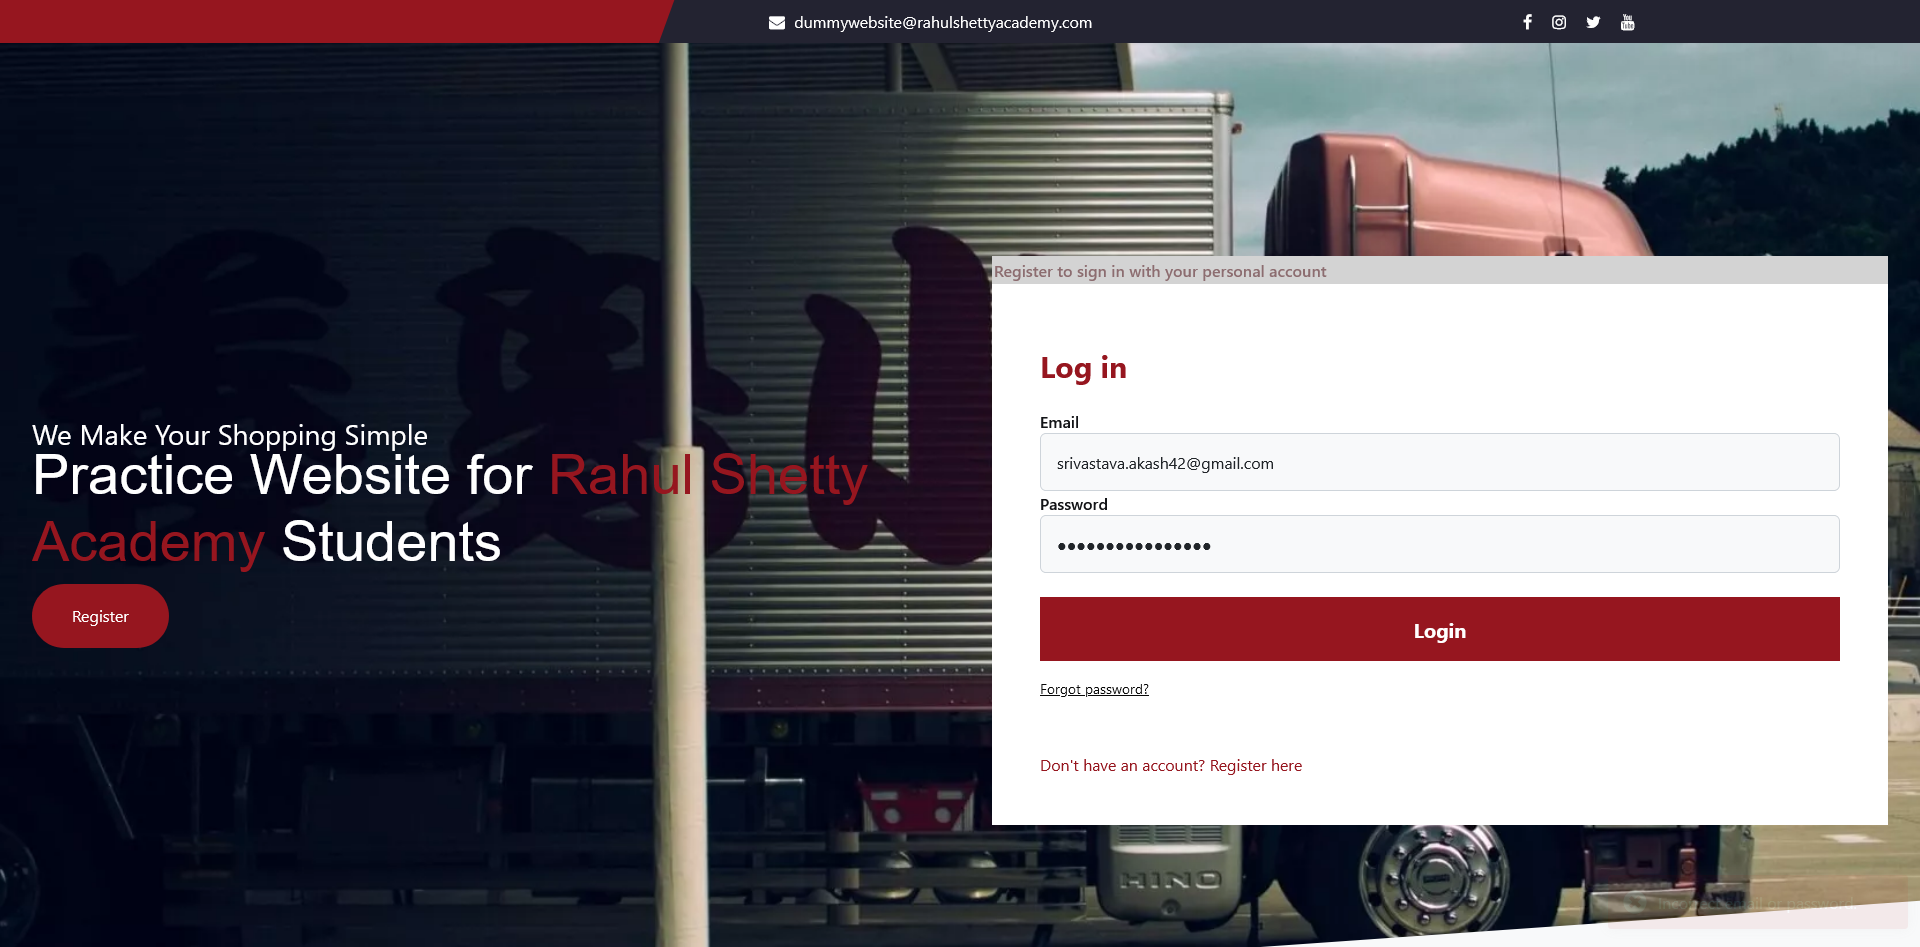
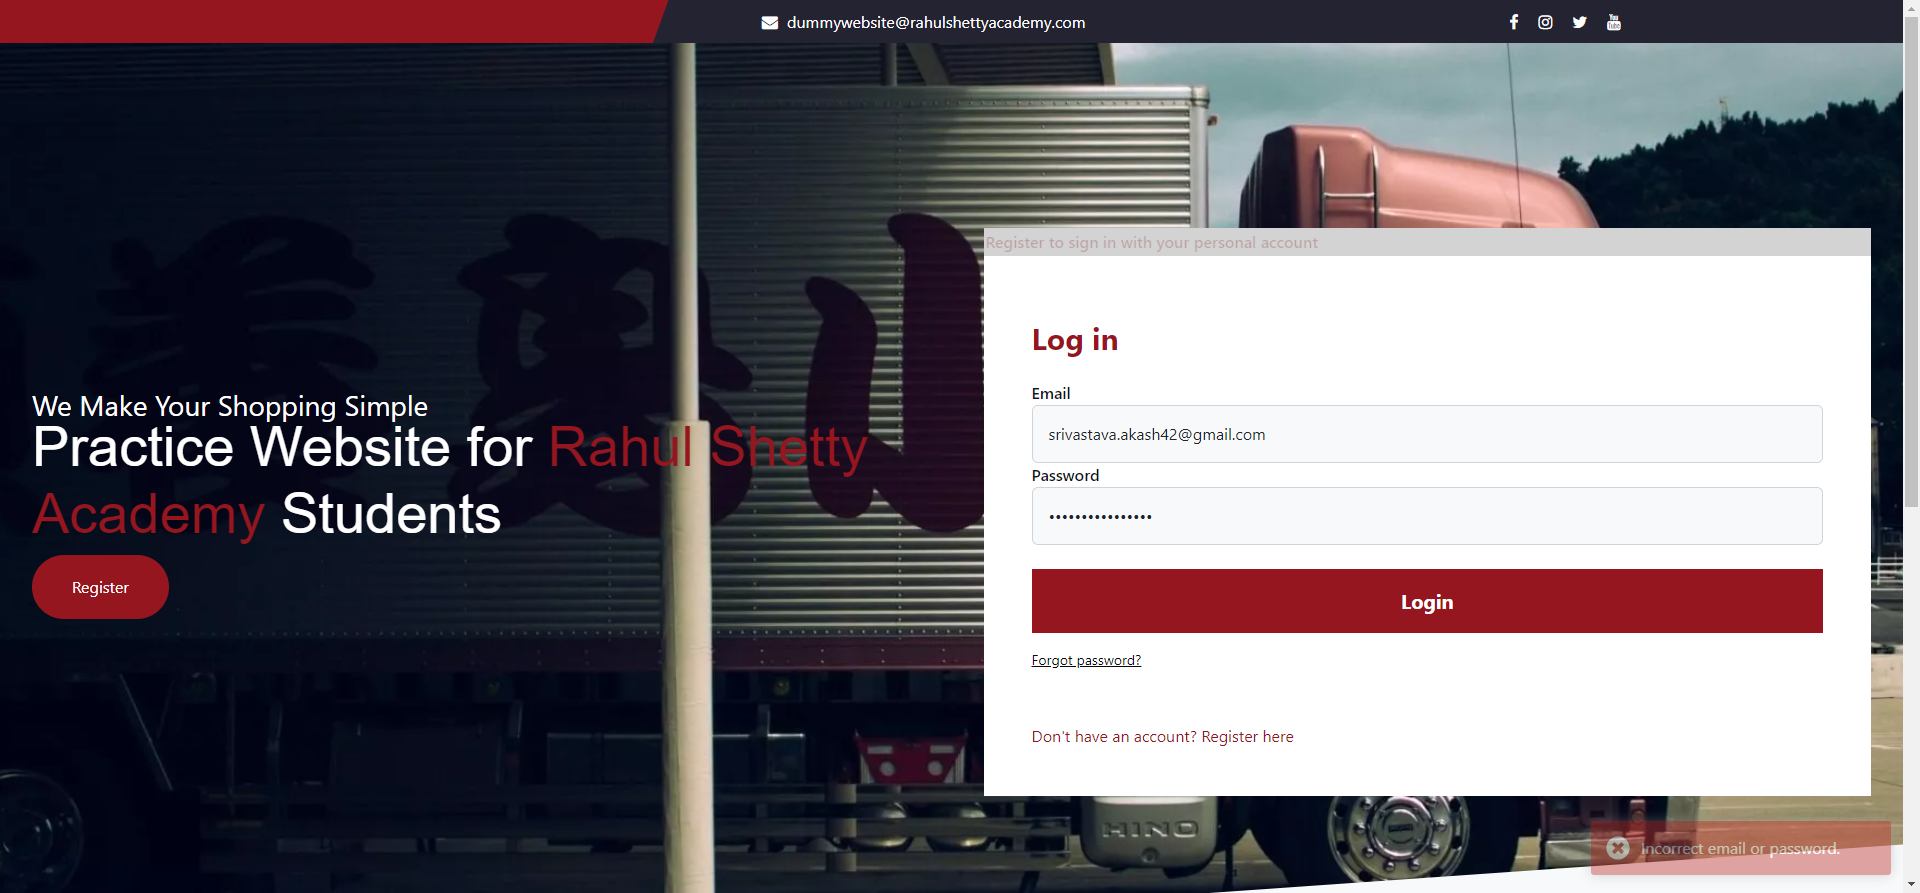
changes

diff --git a/reports/index.html b/reports/index.html
@@ -35,7 +35,7 @@
 <a href="#"><span class="badge badge-primary">UI Automation Report</span></a>
 </li>
 <li class="m-r-10">
-<a href="#"><span class="badge badge-primary">Sep 9, 2024 06:40:28 PM</span></a>
+<a href="#"><span class="badge badge-primary">Sep 9, 2024 07:58:21 PM</span></a>
 </li>
 </ul>
 </div>
@@ -80,14 +80,40 @@
 </ul>
 </div>    <div class="test-list-wrapper scrollable">
       <ul class="test-list-item">
-        <li class="test-item"  status="fail" test-id="1"
+        <li class="test-item"  status="pass" test-id="1"
+          author=""
+          tag=""
+          device="">
+          <div class="test-detail">
+            <p class="name">productOrderTest</p>
+            <p class="text-sm">
+              <span>7:58:23 PM</span> / <span>00:00:00:000</span>
+              <span class="badge pass-bg log float-right">Pass</span>
+            </p>
+          </div>
+          <div class="test-contents d-none">
+<div class="detail-head">
+<div class="p-v-10">
+<div class="info">
+<h5 class="test-status text-pass">productOrderTest</h5>
+<span class='badge badge-success'>09.09.2024 7:58:23 PM</span>
+<span class='badge badge-danger'>09.09.2024 7:58:23 PM</span>
+<span class='badge badge-default'>00:00:00:000</span>
+&middot; <span class='uri-anchor badge badge-default'>#test-id=1</span>
+<span class='badge badge-default pointer float-right ml-1 et'><i class="fa fa-chevron-down"></i></span>
+<span class='badge badge-default pointer float-right ct'><i class="fa fa-chevron-up"></i></span>
+</div>
+</div>
+</div>          </div>
+        </li>
+        <li class="test-item"  status="fail" test-id="2"
           author=""
           tag=""
           device="">
           <div class="test-detail">
             <p class="name">validateErrorMessage_Login</p>
             <p class="text-sm">
-              <span>6:40:33 PM</span> / <span>00:00:00:570</span>
+              <span>7:58:25 PM</span> / <span>00:00:01:010</span>
               <span class="badge fail-bg log float-right">Fail</span>
             </p>
           </div>
@@ -96,10 +122,10 @@
 <div class="p-v-10">
 <div class="info">
 <h5 class="test-status text-fail">validateErrorMessage_Login</h5>
-<span class='badge badge-success'>09.09.2024 6:40:33 PM</span>
-<span class='badge badge-danger'>09.09.2024 6:40:34 PM</span>
-<span class='badge badge-default'>00:00:00:570</span>
-&middot; <span class='uri-anchor badge badge-default'>#test-id=1</span>
+<span class='badge badge-success'>09.09.2024 7:58:25 PM</span>
+<span class='badge badge-danger'>09.09.2024 7:58:26 PM</span>
+<span class='badge badge-default'>00:00:01:010</span>
+&middot; <span class='uri-anchor badge badge-default'>#test-id=2</span>
 <span class='badge badge-default pointer float-right ml-1 et'><i class="fa fa-chevron-down"></i></span>
 <span class='badge badge-default pointer float-right ct'><i class="fa fa-chevron-up"></i></span>
 </div>
@@ -114,7 +140,7 @@
   <tbody>
       <tr class="event-row">
         <td><span class="badge log fail-bg">Fail</span></td>
-        <td>6:40:33 PM</td>
+        <td>7:58:26 PM</td>
         <td>
           <textarea readonly class="code-block">java.lang.AssertionError: expected [Incorrect email or password.] but found [Incorrct email or password.]
 	at org.testng.Assert.fail(Assert.java:111)
@@ -150,42 +176,9 @@
           
         </td>
       </tr>
-  </tbody>
-</table>
-</div>
-          </div>
-        </li>
-        <li class="test-item"  status="pass" test-id="2"
-          author=""
-          tag=""
-          device="">
-          <div class="test-detail">
-            <p class="name">productOrderTest</p>
-            <p class="text-sm">
-              <span>6:40:33 PM</span> / <span>00:00:03:809</span>
-              <span class="badge pass-bg log float-right">Pass</span>
-            </p>
-          </div>
-          <div class="test-contents d-none">
-<div class="detail-head">
-<div class="p-v-10">
-<div class="info">
-<h5 class="test-status text-pass">productOrderTest</h5>
-<span class='badge badge-success'>09.09.2024 6:40:33 PM</span>
-<span class='badge badge-danger'>09.09.2024 6:40:37 PM</span>
-<span class='badge badge-default'>00:00:03:809</span>
-&middot; <span class='uri-anchor badge badge-default'>#test-id=2</span>
-<span class='badge badge-default pointer float-right ml-1 et'><i class="fa fa-chevron-down"></i></span>
-<span class='badge badge-default pointer float-right ct'><i class="fa fa-chevron-up"></i></span>
-</div>
-</div>
-</div><div class="detail-body mt-4">
-<table class="table table-sm">
-  <thead><tr><th class="status-col">Status</th><th class="timestamp-col">Timestamp</th><th class="details-col">Details</th></tr></thead>
-  <tbody>
       <tr class="event-row">
         <td><span class="badge log pass-bg">Pass</span></td>
-        <td>6:40:37 PM</td>
+        <td>7:58:26 PM</td>
         <td>
           Test Case Passed
         </td>
@@ -202,7 +195,7 @@
           <div class="test-detail">
             <p class="name">productErrorValidation</p>
             <p class="text-sm">
-              <span>6:40:41 PM</span> / <span>00:00:00:526</span>
+              <span>7:58:28 PM</span> / <span>00:00:00:600</span>
               <span class="badge pass-bg log float-right">Pass</span>
             </p>
           </div>
@@ -211,9 +204,9 @@
 <div class="p-v-10">
 <div class="info">
 <h5 class="test-status text-pass">productErrorValidation</h5>
-<span class='badge badge-success'>09.09.2024 6:40:41 PM</span>
-<span class='badge badge-danger'>09.09.2024 6:40:42 PM</span>
-<span class='badge badge-default'>00:00:00:526</span>
+<span class='badge badge-success'>09.09.2024 7:58:28 PM</span>
+<span class='badge badge-danger'>09.09.2024 7:58:28 PM</span>
+<span class='badge badge-default'>00:00:00:600</span>
 &middot; <span class='uri-anchor badge badge-default'>#test-id=3</span>
 <span class='badge badge-default pointer float-right ml-1 et'><i class="fa fa-chevron-down"></i></span>
 <span class='badge badge-default pointer float-right ct'><i class="fa fa-chevron-up"></i></span>
@@ -225,7 +218,7 @@
   <tbody>
       <tr class="event-row">
         <td><span class="badge log pass-bg">Pass</span></td>
-        <td>6:40:42 PM</td>
+        <td>7:58:28 PM</td>
         <td>
           Test Case Passed
         </td>
@@ -276,9 +269,9 @@
 <tbody>
 <tr class="tag-test-status" status="fail">
 <td><span class="badge log fail-bg">Fail</span></td>
-<td>18:40:33 PM</td>
+<td>19:58:25 PM</td>
 <td>
-<a href="#" class="linked" test-id='1' id='1'>validateErrorMessage_Login</a>
+<a href="#" class="linked" test-id='2' id='2'>validateErrorMessage_Login</a>
 </td>
 </tr>
 </tbody>
@@ -298,13 +291,13 @@
 <div class="col-md-3">
 <div class="card"><div class="card-body">
 <p class="m-b-0">Started</p>
-<h3>Sep 9, 2024 06:40:28 PM</h3>
+<h3>Sep 9, 2024 07:58:21 PM</h3>
 </div></div>
 </div>
 <div class="col-md-3">
 <div class="card"><div class="card-body">
 <p class="m-b-0">Ended</p>
-<h3>Sep 9, 2024 06:40:42 PM</h3>
+<h3>Sep 9, 2024 07:58:28 PM</h3>
 </div></div>
 </div>
 <div class="col-md-3">
@@ -374,7 +367,7 @@
 </div></div>
 <script>
 var timeline = {
-"validateErrorMessage_Login":0.57,"productOrderTest":3.809,"productErrorValidation":0.526
+"productOrderTest":0,"validateErrorMessage_Login":1.01,"productErrorValidation":0.6
 };
 </script>
 <div class="row">

diff --git a/src/test/java/com/demo/UI/Automation/Tests/E2ETest.java b/src/test/java/com/demo/UI/Automation/Tests/E2ETest.java
@@ -19,7 +19,7 @@ import com.demo.UI.Automation.pageObjects.ProductCatalog;
 public class E2ETest extends BaseTest {
 
 	@Test(dataProvider = "getData")
-	public void productOrderTest(HashMap<String, String> data) throws IOException {
+	public void productOrderTest(HashMap<String, String> data) throws IOException, InterruptedException {
 
 		ProductCatalog pc = lp.loginToApp(data.get("email"), data.get("password"));
 		List<WebElement> products = pc.getProductList();

diff --git a/src/main/java/com/demo/UI/Automation/pageObjects/CheckOutPage.java b/src/main/java/com/demo/UI/Automation/pageObjects/CheckOutPage.java
@@ -37,7 +37,8 @@ public class CheckOutPage extends AbstractComponent{
 		selectCountry.click();
 	}
 	
-	public ConfirmationPage submitOrder() {
+	public ConfirmationPage submitOrder() throws InterruptedException {
+		Thread.sleep(3000);
 		submitBtn.click();
 		return new ConfirmationPage(driver);
 	}
